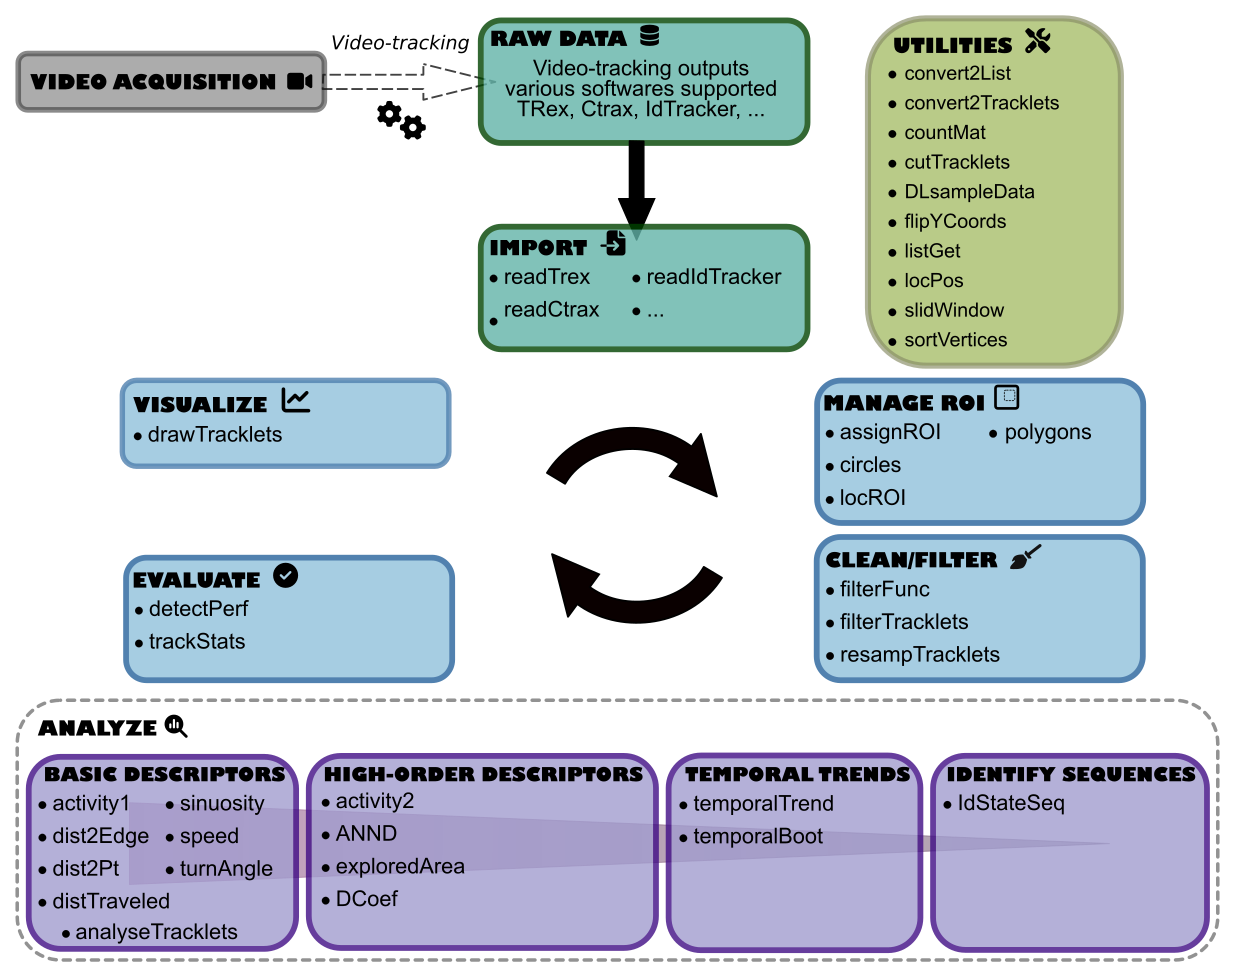
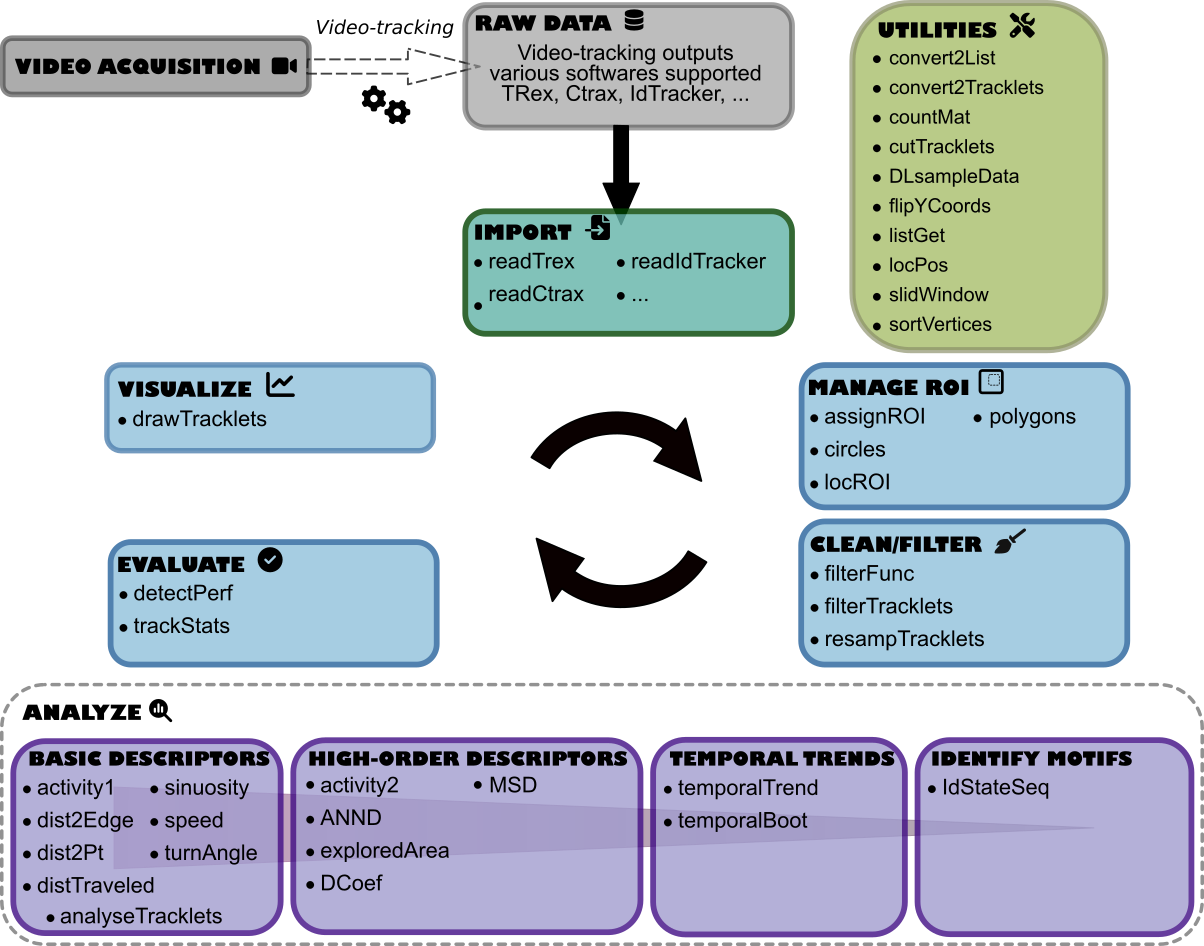
Add MSD and modify Dcoef functions
* Add MSD to compute mean square displacement of particles according to the equations derived from Kareiva & Shigesada (1983) or Turchin (2015).
* Modify the Dcoef function to properly use the equations derived from Kareiva & Shigesada (1983) or Turchin (2015) to compute net square displacement index.

diff --git a/NEWS.md b/NEWS.md
@@ -1,3 +1,13 @@
+# MoveR release v0.2.0
+
+* Add readAnimalTA function to import tracking data from AnimalTA software.
+* Add MSD to compute mean square displacement of particles according to the equations derived from Kareiva & Shigesada (1983) or Turchin (2015).
+* Modify the Dcoef function to properly use the equations derived from Kareiva & Shigesada (1983) or Turchin (2015) to compute net square displacement index.
+* Improve the speed of the slidWindow function by using stats::filter instead of a 'for loop' within the function's body.
+NB: while it increases the speed of the slidWindow function, it also make it less flexible, it is not possible to perform a custom computation over the sliding window anymore. Instead, the 'statistic' argument allows to choose some already implemented computation methods.
+* some minor modifications in readTrackR function
+
+
 # MoveR dev. release v0.1.0
 
 * This is the development release of the MoveR package.
